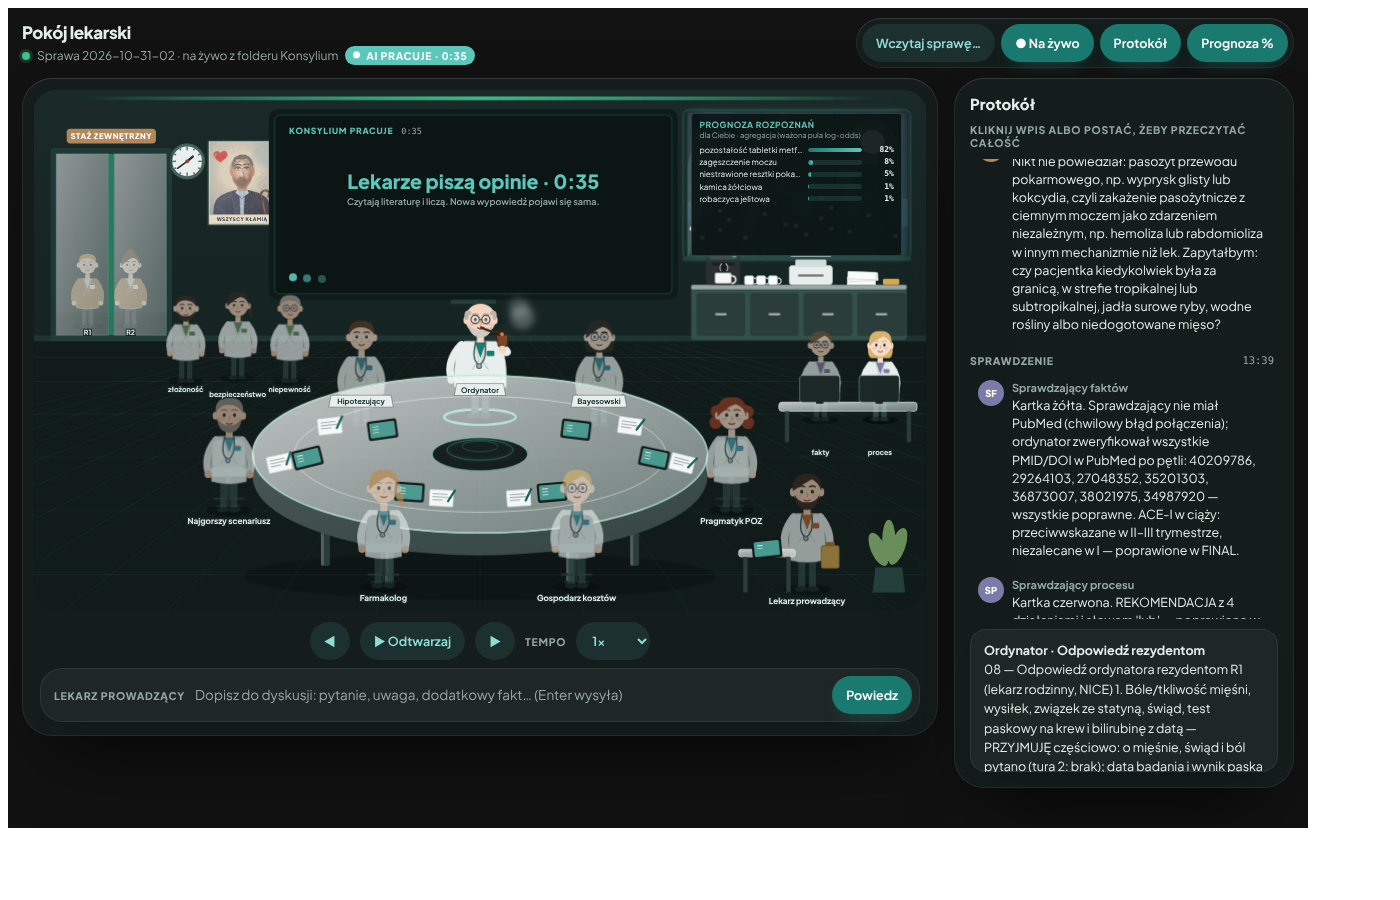
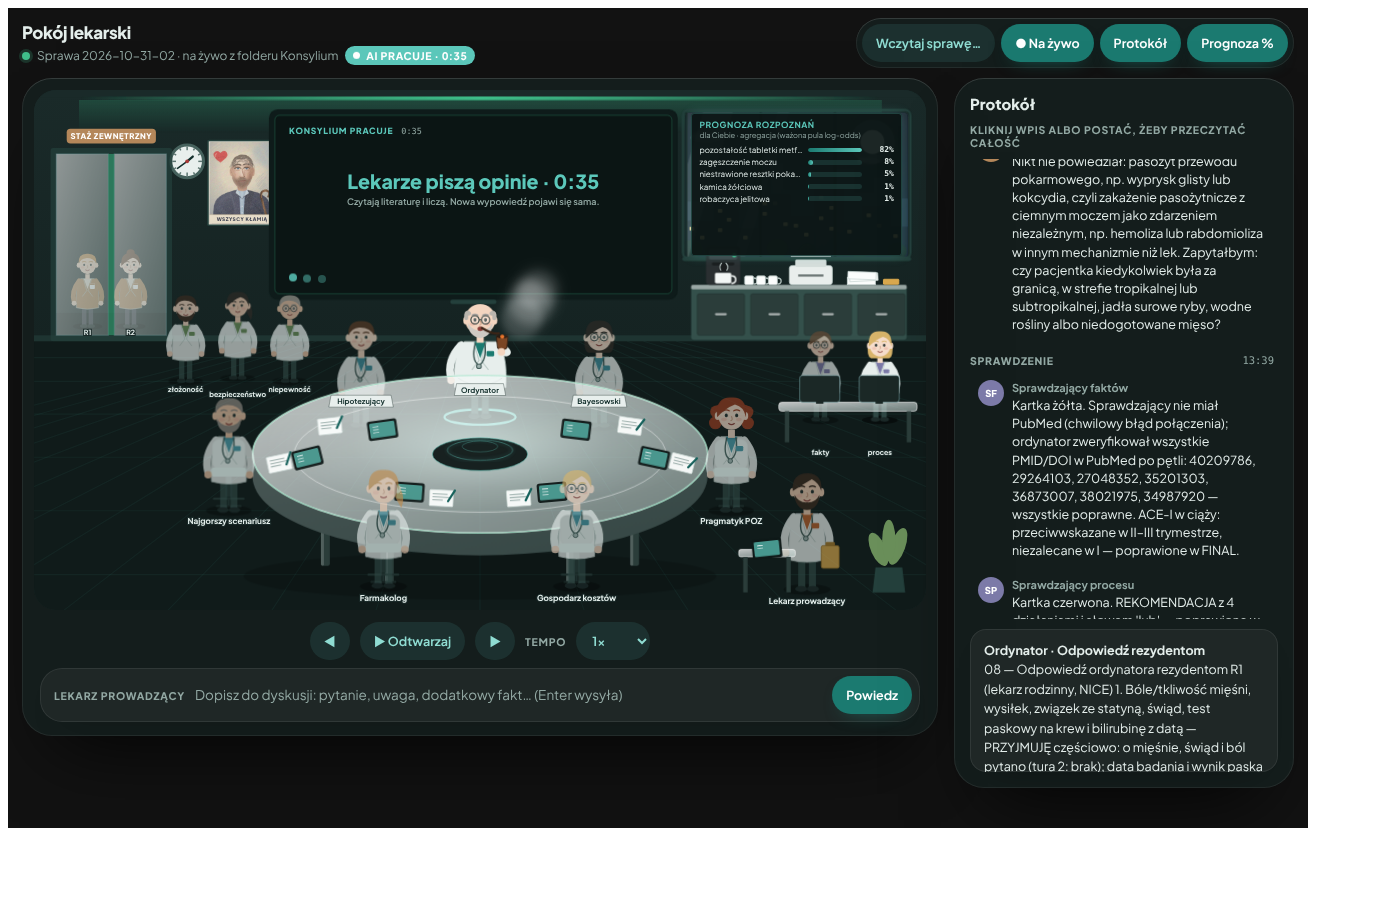
Uwagi lekarza prowadzącego: dopisywanie zamiast nadpisywania pliku
MsMost.czytaj zwraca { tekst, zmiana }, a Pokój lekarski i Wywiad traktowały wynik jak tekst,
więc każdy wpis z pola „Powiedz” nadpisywał uwagi-lekarza.jsonl linią „[object Object]” i nowym wpisem.
- pokoj.js: tekstPliku() + dopiszJsonl() (zachowuje poprawne wiersze, odrzuca śmieci)
- wywiad: sprawdzanie zajętego numeru sprawy i kodu wywiadu czyta .tekst
- uwagi_lekarza.py: znacznik po kluczach wpisów (czas + skrót treści), nie po liczbie; uszkodzone wiersze pomijane
- ordynator/NA-ZYWO: obowiązkowe sprawdzenie uwag tuż przed zapisem 09-FINAL
- e2e: atrapa mostu zwraca obiekt jak powłoka; test braku „[object Object]”

Claude-Session: https://claude.ai/code/session_01WHTxQyfN9SkQXruw4iWe3R

Changed region(s): [[0.0614, 0.0933, 0.6143, 0.1244], [0.2764, 0.4667, 0.43, 0.5289], [0.3379, 0.28, 0.3993, 0.4044]]

diff --git a/narzedzia/pokoj-lekarski/POKOJ-LEKARSKI-0.3.0.html b/narzedzia/pokoj-lekarski/POKOJ-LEKARSKI-0.3.0.html
@@ -1920,7 +1920,19 @@ ${podpisy(wpisy)}`;
     dymki.appendChild(d); ustawDymek(d, kto);
     document.querySelectorAll('.postac').forEach((el) => el.classList.toggle('aktywna', el.dataset.kto === kto));
   }
-  async function powiedzLekarz(tekst) {
+  // MsMost.czytaj zwraca { tekst, zmiana } albo null (starsze wersje: sam tekst). Nigdy nie zapisujemy obiektu jako tekstu.
+function tekstPliku(r) {
+  if (r == null) return '';
+  if (typeof r === 'object') return typeof r.tekst === 'string' ? r.tekst : '';
+  return String(r);
+}
+// dopisywanie do .jsonl: zachowuje poprawne wiersze, odrzuca śmieci typu „[object Object]”
+function dopiszJsonl(stare, wpis) {
+  const wiersze = String(stare || '').split('\n').filter((l) => { const t = l.trim(); if (!t) return false; try { JSON.parse(t); return true; } catch { return false; } });
+  wiersze.push(JSON.stringify(wpis));
+  return wiersze.join('\n') + '\n';
+}
+async function powiedzLekarz(tekst) {
     tekst = String(tekst || '').replace(/\s+/g, ' ').trim();
     if (!tekst || !sprawaZywa || !window.MsMost) return false;
     const sc = scen && kroki.length ? scen.sceny[kroki[kroki.length - 1].si] : null;
@@ -1930,9 +1942,8 @@ ${podpisy(wpisy)}`;
     if (tekst.length > 400) wpis.tresc = tekst.length > 600 ? tekst.slice(0, 599).replace(/\s+\S*$/, '') + '…' : tekst;
     const plik = 'sprawy/' + sprawaZywa + '/uwagi-lekarza.jsonl';
     let stare = '';
-    try { stare = await window.MsMost.czytaj(plik); } catch { stare = ''; }
-    stare = String(stare || '');
-    await window.MsMost.zapisz(plik, (stare && !stare.endsWith('\n') ? stare + '\n' : stare) + JSON.stringify(wpis) + '\n');
+    try { stare = tekstPliku(await window.MsMost.czytaj(plik)); } catch { stare = ''; }
+    await window.MsMost.zapisz(plik, dopiszJsonl(stare, wpis));
     // głos lekarza zatrzymuje odtwarzanie na kilka sekund, żeby jego dymek był widoczny; potem dyskusja idzie dalej
     const bylaGra = gra; if (gra) ustawGre(false);
     cichoDo = Date.now() + 6000;
@@ -1994,8 +2005,8 @@ ${podpisy(wpisy)}`;
     const plik = 'sprawy/' + sprawaZywa + '/uwagi-lekarza.jsonl';
     try {
       let stare = '';
-      try { stare = String((await window.MsMost.czytaj(plik)) || ''); } catch { stare = ''; }
-      await window.MsMost.zapisz(plik, (stare && !stare.endsWith('\n') ? stare + '\n' : stare) + JSON.stringify(wpis) + '\n');
+      try { stare = tekstPliku(await window.MsMost.czytaj(plik)); } catch { stare = ''; }
+      await window.MsMost.zapisz(plik, dopiszJsonl(stare, wpis));
       pytanieWyslane = p.id; $('pytanie').hidden = true;
       cichoDo = Date.now() + 5000;
       dymekTymczasowy('lekarz_prowadzacy', `Odpowiadam: ${opcja}.`, 'Lekarz prowadzący');

diff --git a/narzedzia/powloka/gotowe/app/moduly/pokoj.html b/narzedzia/powloka/gotowe/app/moduly/pokoj.html
@@ -1920,7 +1920,19 @@ ${podpisy(wpisy)}`;
     dymki.appendChild(d); ustawDymek(d, kto);
     document.querySelectorAll('.postac').forEach((el) => el.classList.toggle('aktywna', el.dataset.kto === kto));
   }
-  async function powiedzLekarz(tekst) {
+  // MsMost.czytaj zwraca { tekst, zmiana } albo null (starsze wersje: sam tekst). Nigdy nie zapisujemy obiektu jako tekstu.
+function tekstPliku(r) {
+  if (r == null) return '';
+  if (typeof r === 'object') return typeof r.tekst === 'string' ? r.tekst : '';
+  return String(r);
+}
+// dopisywanie do .jsonl: zachowuje poprawne wiersze, odrzuca śmieci typu „[object Object]”
+function dopiszJsonl(stare, wpis) {
+  const wiersze = String(stare || '').split('\n').filter((l) => { const t = l.trim(); if (!t) return false; try { JSON.parse(t); return true; } catch { return false; } });
+  wiersze.push(JSON.stringify(wpis));
+  return wiersze.join('\n') + '\n';
+}
+async function powiedzLekarz(tekst) {
     tekst = String(tekst || '').replace(/\s+/g, ' ').trim();
     if (!tekst || !sprawaZywa || !window.MsMost) return false;
     const sc = scen && kroki.length ? scen.sceny[kroki[kroki.length - 1].si] : null;
@@ -1930,9 +1942,8 @@ ${podpisy(wpisy)}`;
     if (tekst.length > 400) wpis.tresc = tekst.length > 600 ? tekst.slice(0, 599).replace(/\s+\S*$/, '') + '…' : tekst;
     const plik = 'sprawy/' + sprawaZywa + '/uwagi-lekarza.jsonl';
     let stare = '';
-    try { stare = await window.MsMost.czytaj(plik); } catch { stare = ''; }
-    stare = String(stare || '');
-    await window.MsMost.zapisz(plik, (stare && !stare.endsWith('\n') ? stare + '\n' : stare) + JSON.stringify(wpis) + '\n');
+    try { stare = tekstPliku(await window.MsMost.czytaj(plik)); } catch { stare = ''; }
+    await window.MsMost.zapisz(plik, dopiszJsonl(stare, wpis));
     // głos lekarza zatrzymuje odtwarzanie na kilka sekund, żeby jego dymek był widoczny; potem dyskusja idzie dalej
     const bylaGra = gra; if (gra) ustawGre(false);
     cichoDo = Date.now() + 6000;
@@ -1994,8 +2005,8 @@ ${podpisy(wpisy)}`;
     const plik = 'sprawy/' + sprawaZywa + '/uwagi-lekarza.jsonl';
     try {
       let stare = '';
-      try { stare = String((await window.MsMost.czytaj(plik)) || ''); } catch { stare = ''; }
-      await window.MsMost.zapisz(plik, (stare && !stare.endsWith('\n') ? stare + '\n' : stare) + JSON.stringify(wpis) + '\n');
+      try { stare = tekstPliku(await window.MsMost.czytaj(plik)); } catch { stare = ''; }
+      await window.MsMost.zapisz(plik, dopiszJsonl(stare, wpis));
       pytanieWyslane = p.id; $('pytanie').hidden = true;
       cichoDo = Date.now() + 5000;
       dymekTymczasowy('lekarz_prowadzacy', `Odpowiadam: ${opcja}.`, 'Lekarz prowadzący');

diff --git a/narzedzia/pokoj-lekarski/src/pokoj.js b/narzedzia/pokoj-lekarski/src/pokoj.js
@@ -572,7 +572,19 @@ ${podpisy(wpisy)}`;
     dymki.appendChild(d); ustawDymek(d, kto);
     document.querySelectorAll('.postac').forEach((el) => el.classList.toggle('aktywna', el.dataset.kto === kto));
   }
-  async function powiedzLekarz(tekst) {
+  // MsMost.czytaj zwraca { tekst, zmiana } albo null (starsze wersje: sam tekst). Nigdy nie zapisujemy obiektu jako tekstu.
+function tekstPliku(r) {
+  if (r == null) return '';
+  if (typeof r === 'object') return typeof r.tekst === 'string' ? r.tekst : '';
+  return String(r);
+}
+// dopisywanie do .jsonl: zachowuje poprawne wiersze, odrzuca śmieci typu „[object Object]”
+function dopiszJsonl(stare, wpis) {
+  const wiersze = String(stare || '').split('\n').filter((l) => { const t = l.trim(); if (!t) return false; try { JSON.parse(t); return true; } catch { return false; } });
+  wiersze.push(JSON.stringify(wpis));
+  return wiersze.join('\n') + '\n';
+}
+async function powiedzLekarz(tekst) {
     tekst = String(tekst || '').replace(/\s+/g, ' ').trim();
     if (!tekst || !sprawaZywa || !window.MsMost) return false;
     const sc = scen && kroki.length ? scen.sceny[kroki[kroki.length - 1].si] : null;
@@ -582,9 +594,8 @@ ${podpisy(wpisy)}`;
     if (tekst.length > 400) wpis.tresc = tekst.length > 600 ? tekst.slice(0, 599).replace(/\s+\S*$/, '') + '…' : tekst;
     const plik = 'sprawy/' + sprawaZywa + '/uwagi-lekarza.jsonl';
     let stare = '';
-    try { stare = await window.MsMost.czytaj(plik); } catch { stare = ''; }
-    stare = String(stare || '');
-    await window.MsMost.zapisz(plik, (stare && !stare.endsWith('\n') ? stare + '\n' : stare) + JSON.stringify(wpis) + '\n');
+    try { stare = tekstPliku(await window.MsMost.czytaj(plik)); } catch { stare = ''; }
+    await window.MsMost.zapisz(plik, dopiszJsonl(stare, wpis));
     // głos lekarza zatrzymuje odtwarzanie na kilka sekund, żeby jego dymek był widoczny; potem dyskusja idzie dalej
     const bylaGra = gra; if (gra) ustawGre(false);
     cichoDo = Date.now() + 6000;
@@ -646,8 +657,8 @@ ${podpisy(wpisy)}`;
     const plik = 'sprawy/' + sprawaZywa + '/uwagi-lekarza.jsonl';
     try {
       let stare = '';
-      try { stare = String((await window.MsMost.czytaj(plik)) || ''); } catch { stare = ''; }
-      await window.MsMost.zapisz(plik, (stare && !stare.endsWith('\n') ? stare + '\n' : stare) + JSON.stringify(wpis) + '\n');
+      try { stare = tekstPliku(await window.MsMost.czytaj(plik)); } catch { stare = ''; }
+      await window.MsMost.zapisz(plik, dopiszJsonl(stare, wpis));
       pytanieWyslane = p.id; $('pytanie').hidden = true;
       cichoDo = Date.now() + 5000;
       dymekTymczasowy('lekarz_prowadzacy', `Odpowiadam: ${opcja}.`, 'Lekarz prowadzący');

diff --git a/narzedzia/powloka/gotowe/app/moduly/wywiad.html b/narzedzia/powloka/gotowe/app/moduly/wywiad.html
@@ -2821,7 +2821,7 @@ window.WykrywanieDanych = { KATEGORIE, ETYKIETY, normalizuj, peselPoprawny, wier
     // a potem sprawdzenie, że katalog naprawdę jest pusty (00-surowe.md, 01-wywiad.md, _log.jsonl); zajęty → kolejny numer.
     var zajety = function (id) {
       return Promise.all(['00-surowe.md', '01-wywiad.md', '_log.jsonl'].map(function (f) {
-        return MsMost.czytaj('sprawy/' + id + '/' + f).then(function (t) { return t != null && String(t).length > 0; }, function () { return false; });
+        return MsMost.czytaj('sprawy/' + id + '/' + f).then(function (t) { var x = t && typeof t === 'object' ? t.tekst : t; return x != null && String(x).length > 0; }, function () { return false; });
       })).then(function (w) { return w.some(Boolean); });
     };
     var sprobuj = function (n, ile) {
@@ -2839,7 +2839,7 @@ window.WykrywanieDanych = { KATEGORIE, ETYKIETY, normalizuj, peselPoprawny, wier
     var md = doKonsylium().tekst;
     // ponowne wysłanie tego samego wywiadu trafia do jego sprawy, ale tylko jeśli ta sprawa naprawdę należy do tego kodu
     var gotowe = stan.sprawa
-      ? MsMost.czytaj('sprawy/' + stan.sprawa + '/_log.jsonl').then(function (t) { return String(t || '').indexOf('"kod":"' + stan.kod + '"') !== -1 ? stan.sprawa : (stan.sprawa = null, nowyIdSprawy()); }, function () { stan.sprawa = null; return nowyIdSprawy(); })
+      ? MsMost.czytaj('sprawy/' + stan.sprawa + '/_log.jsonl').then(function (t) { return String((t && typeof t === 'object' ? t.tekst : t) || '').indexOf('"kod":"' + stan.kod + '"') !== -1 ? stan.sprawa : (stan.sprawa = null, nowyIdSprawy()); }, function () { stan.sprawa = null; return nowyIdSprawy(); })
       : nowyIdSprawy();
     gotowe.then(function (id) {
       var naglowek = '<!-- wywiad ' + stan.kod + ' · sprawa założona przez aplikację MS Konsylium ' + new Date().toISOString() + ' -->\n';

diff --git a/narzedzia/wywiad/index.html b/narzedzia/wywiad/index.html
@@ -1015,7 +1015,7 @@ html[data-motyw="ciemny"] .flaga.fpilne .poziom { color: #1f1606; }
     // a potem sprawdzenie, że katalog naprawdę jest pusty (00-surowe.md, 01-wywiad.md, _log.jsonl); zajęty → kolejny numer.
     var zajety = function (id) {
       return Promise.all(['00-surowe.md', '01-wywiad.md', '_log.jsonl'].map(function (f) {
-        return MsMost.czytaj('sprawy/' + id + '/' + f).then(function (t) { return t != null && String(t).length > 0; }, function () { return false; });
+        return MsMost.czytaj('sprawy/' + id + '/' + f).then(function (t) { var x = t && typeof t === 'object' ? t.tekst : t; return x != null && String(x).length > 0; }, function () { return false; });
       })).then(function (w) { return w.some(Boolean); });
     };
     var sprobuj = function (n, ile) {
@@ -1033,7 +1033,7 @@ html[data-motyw="ciemny"] .flaga.fpilne .poziom { color: #1f1606; }
     var md = doKonsylium().tekst;
     // ponowne wysłanie tego samego wywiadu trafia do jego sprawy, ale tylko jeśli ta sprawa naprawdę należy do tego kodu
     var gotowe = stan.sprawa
-      ? MsMost.czytaj('sprawy/' + stan.sprawa + '/_log.jsonl').then(function (t) { return String(t || '').indexOf('"kod":"' + stan.kod + '"') !== -1 ? stan.sprawa : (stan.sprawa = null, nowyIdSprawy()); }, function () { stan.sprawa = null; return nowyIdSprawy(); })
+      ? MsMost.czytaj('sprawy/' + stan.sprawa + '/_log.jsonl').then(function (t) { return String((t && typeof t === 'object' ? t.tekst : t) || '').indexOf('"kod":"' + stan.kod + '"') !== -1 ? stan.sprawa : (stan.sprawa = null, nowyIdSprawy()); }, function () { stan.sprawa = null; return nowyIdSprawy(); })
       : nowyIdSprawy();
     gotowe.then(function (id) {
       var naglowek = '<!-- wywiad ' + stan.kod + ' · sprawa założona przez aplikację MS Konsylium ' + new Date().toISOString() + ' -->\n';

diff --git a/skrypty/uwagi_lekarza.py b/skrypty/uwagi_lekarza.py
@@ -7,6 +7,13 @@ Ordynator wywołuje przed każdą wypowiedzią roli i przed każdą rundą:
   python3 skrypty/uwagi_lekarza.py sprawy/<ID> --wszystkie
   python3 skrypty/uwagi_lekarza.py sprawy/<ID> --czekaj 600  # czeka do 600 s na pierwszą nową uwagę (0 = nie czekaj)
 
+OBOWIĄZKOWO tuż przed zapisem 09-FINAL.md: python3 skrypty/uwagi_lekarza.py sprawy/<ID> (bez --czekaj)
+— każda zgłoszona tu uwaga musi trafić do FINAL albo do 08 z powodem odrzucenia.
+
+Znacznik pamięta KLUCZE przeczytanych uwag (czas + skrót treści), nie ich liczbę — uszkodzony
+lub skrócony plik nie ukrywa nowych wpisów. Wiersze, które nie są JSON-em (np. „[object Object]”), są pomijane
+z ostrzeżeniem na stderr.
+
 Wyjście: linie „#<nr> <HH:MM> [<faza>] <tekst>” albo „Brak nowych uwag.” Kod wyjścia 0.
 Każdą nową uwagę ordynator przekazuje właściwym rolom w następnej wypowiedzi i potwierdza dymkiem
 (docs/NA-ZYWO.md, sekcja „Lekarz prowadzący w dyskusji”). Na Windows: python skrypty/uwagi_lekarza.py …
@@ -14,6 +21,7 @@ Każdą nową uwagę ordynator przekazuje właściwym rolom w następnej wypowie
 from __future__ import annotations
 
 import argparse
+import hashlib
 import json
 import sys
 import time
@@ -21,22 +29,60 @@ from pathlib import Path
 
 PLIK = "uwagi-lekarza.jsonl"
 ZNACZNIK = "_uwagi-przeczytane.json"
+_OSTRZEZONO = False
 
 
 def wczytaj(sprawa: Path) -> list[dict]:
     p = sprawa / PLIK
     if not p.exists():
         return []
-    out = []
-    for l in p.read_text(encoding="utf-8").splitlines():
+    out, zle = [], 0
+    for l in p.read_text(encoding="utf-8", errors="replace").splitlines():
         l = l.strip()
         if not l:
             continue
         try:
-            out.append(json.loads(l))
+            u = json.loads(l)
         except json.JSONDecodeError:
+            zle += 1
             continue
+        if isinstance(u, dict):
+            out.append(u)
+        else:
+            zle += 1
+    global _OSTRZEZONO
+    if zle and not _OSTRZEZONO:
+        _OSTRZEZONO = True
+        print(f"Uwaga: pominięto {zle} uszkodzonych wierszy w {PLIK}.", file=sys.stderr)
     return out
+
+
+def tekst(u: dict) -> str:
+    return str(u.get("pelny") or u.get("tresc") or u.get("skrot") or "")
+
+
+def klucz(u: dict) -> str:
+    h = hashlib.sha1(tekst(u).encode("utf-8")).hexdigest()[:12]
+    return f"{u.get('ts', '')}|{h}"
+
+
+def wczytaj_znacznik(zn: Path, uwagi: list[dict]) -> set[str]:
+    if not zn.exists():
+        return set()
+    try:
+        d = json.loads(zn.read_text(encoding="utf-8"))
+    except (ValueError, json.JSONDecodeError):
+        return set()
+    if isinstance(d.get("widziane"), list):
+        return {str(x) for x in d["widziane"]}
+    # stary znacznik (sama liczba): ufamy mu tylko, gdy plik nie jest krótszy — inaczej pokazujemy wszystko
+    try:
+        n = int(d.get("przeczytane", 0))
+    except (TypeError, ValueError):
+        n = 0
+    if n > len(uwagi):
+        return set()
+    return {klucz(u) for u in uwagi[:n]}
 
 
 def main() -> None:
@@ -50,28 +96,23 @@ def main() -> None:
     if hasattr(sys.stdout, "reconfigure"):
         sys.stdout.reconfigure(encoding="utf-8")
     zn = a.sprawa / ZNACZNIK
-    przeczytane = 0
-    if zn.exists() and not a.wszystkie:
-        try:
-            przeczytane = int(json.loads(zn.read_text(encoding="utf-8")).get("przeczytane", 0))
-        except (ValueError, json.JSONDecodeError):
-            przeczytane = 0
+    widziane = set() if a.wszystkie else wczytaj_znacznik(zn, wczytaj(a.sprawa))
     koniec = time.time() + max(0, a.czekaj)
     while True:
         uwagi = wczytaj(a.sprawa)
-        nowe = uwagi[przeczytane:]
+        nowe = [(n, u) for n, u in enumerate(uwagi, start=1) if klucz(u) not in widziane]
         if nowe or time.time() >= koniec:
             break
         time.sleep(3)
     if not nowe:
         print("Brak nowych uwag.")
         return
-    for n, u in enumerate(nowe, start=przeczytane + 1):
+    for n, u in nowe:
         ts = str(u.get("ts", ""))
         hhmm = ts[11:16] if len(ts) >= 16 else ""
-        tekst = u.get("pelny") or u.get("tresc") or u.get("skrot") or ""
-        print(f"#{n} {hhmm} [{u.get('faza', '')}] {tekst}")
-    zn.write_text(json.dumps({"przeczytane": len(uwagi)}), encoding="utf-8")
+        print(f"#{n} {hhmm} [{u.get('faza', '')}] {tekst(u)}")
+    wszystkie = {klucz(u) for u in uwagi} | (set() if a.wszystkie else widziane)
+    zn.write_text(json.dumps({"przeczytane": len(uwagi), "widziane": sorted(wszystkie)}, ensure_ascii=False), encoding="utf-8")
 
 
 if __name__ == "__main__":

diff --git a/docs/NA-ZYWO.md b/docs/NA-ZYWO.md
@@ -68,7 +68,7 @@ Ordynator **przed każdą wypowiedzią roli i przed każdą rundą** sprawdza no
 python skrypty/uwagi_lekarza.py sprawy/<ID>          # tylko nowe (znacznik _uwagi-przeczytane.json)
 python skrypty/uwagi_lekarza.py sprawy/<ID> --czekaj 600   # czeka do 10 min, np. przed werdyktem
 ```
-Każdą uwagę przekazuje właściwym rolom w treści ich promptu („Lekarz prowadzący dopisał: …”), a one odnoszą się do niej w najbliższej wypowiedzi (medycznie, nie „dziękuję za uwagę”). Fakt podany przez lekarza prowadzącego ma rangę odpowiedzi z wywiadu: trafia do `01-wywiad.md` jako dopisek z godziną i może zmienić ranking. Po `09-FINAL.md` ordynator czeka jeszcze 10 minut na uwagi (`--czekaj 600`); nowa uwaga otwiera dodatkową rundę i poprawkę werdyktu.
+Każdą uwagę przekazuje właściwym rolom w treści ich promptu („Lekarz prowadzący dopisał: …”), a one odnoszą się do niej w najbliższej wypowiedzi (medycznie, nie „dziękuję za uwagę”). Fakt podany przez lekarza prowadzącego ma rangę odpowiedzi z wywiadu: trafia do `01-wywiad.md` jako dopisek z godziną i może zmienić ranking. **Tuż przed zapisem `09-FINAL.md` obowiązkowo** jeszcze raz `uwagi_lekarza.py sprawy/<ID>` (bez czekania) – uwaga dopisana w trakcie pisania werdyktu nie może przepaść. Znacznik pamięta klucze przeczytanych wpisów, a uszkodzone wiersze pliku są pomijane z ostrzeżeniem. Po `09-FINAL.md` ordynator czeka jeszcze 10 minut na uwagi (`--czekaj 600`); nowa uwaga otwiera dodatkową rundę i poprawkę werdyktu.
 
 ## 4. Co zainstalować na Windows
 

diff --git a/.claude/agents/ordynator.md b/.claude/agents/ordynator.md
@@ -61,7 +61,7 @@ Potem `sprawdzajacy-faktow`. Jeśli zielona → `09-FINAL.md`. Czerwona → popr
 6. Uruchom równolegle `sprawdzajacy-faktow` i `sprawdzajacy-procesu` → `07-sprawdzenie.json`. Czerwona karta → popraw `05-projekt.md`, ponów (max 2 pętle).
 7. `08-odpowiedz-rezydentom.md`: na **każdy** punkt każdego rezydenta: `PRZYJMUJĘ` / `ODRZUCAM` + jeden powód + kategoria (brak_danych / hipoteza / zalozenie) + hasło.
    Jeśli PRZYJMUJĘ zmienia decyzję → wróć do pkt 4 i oznacz to w logu.
-8. `09-FINAL.md` – najpierw `python skrypty/lint_final.py sprawy/<ID>` musi dać „FINAL OK”. Pokaż użytkownikowi cały plik. Nic więcej — żadnych „alternatywnie możesz…".
+8. `09-FINAL.md` – **tuż przed zapisem** uruchom `python skrypty/uwagi_lekarza.py sprawy/<ID>` (bez `--czekaj`); każda zgłoszona uwaga lekarza prowadzącego musi być uwzględniona w FINAL albo odrzucona z powodem w `08-odpowiedz-rezydentom.md`. Potem `python skrypty/lint_final.py sprawy/<ID>` musi dać „FINAL OK”. Pokaż użytkownikowi cały plik. Nic więcej — żadnych „alternatywnie możesz…".
 
 ### Krok 4 — po czasie
 Gdy użytkownik wpisze `10-followup.md`: uruchom `python3 skrypty/kalibracja.py sprawy/<ID>` i `python3 skrypty/rubryka.py sprawy/<ID>`.
